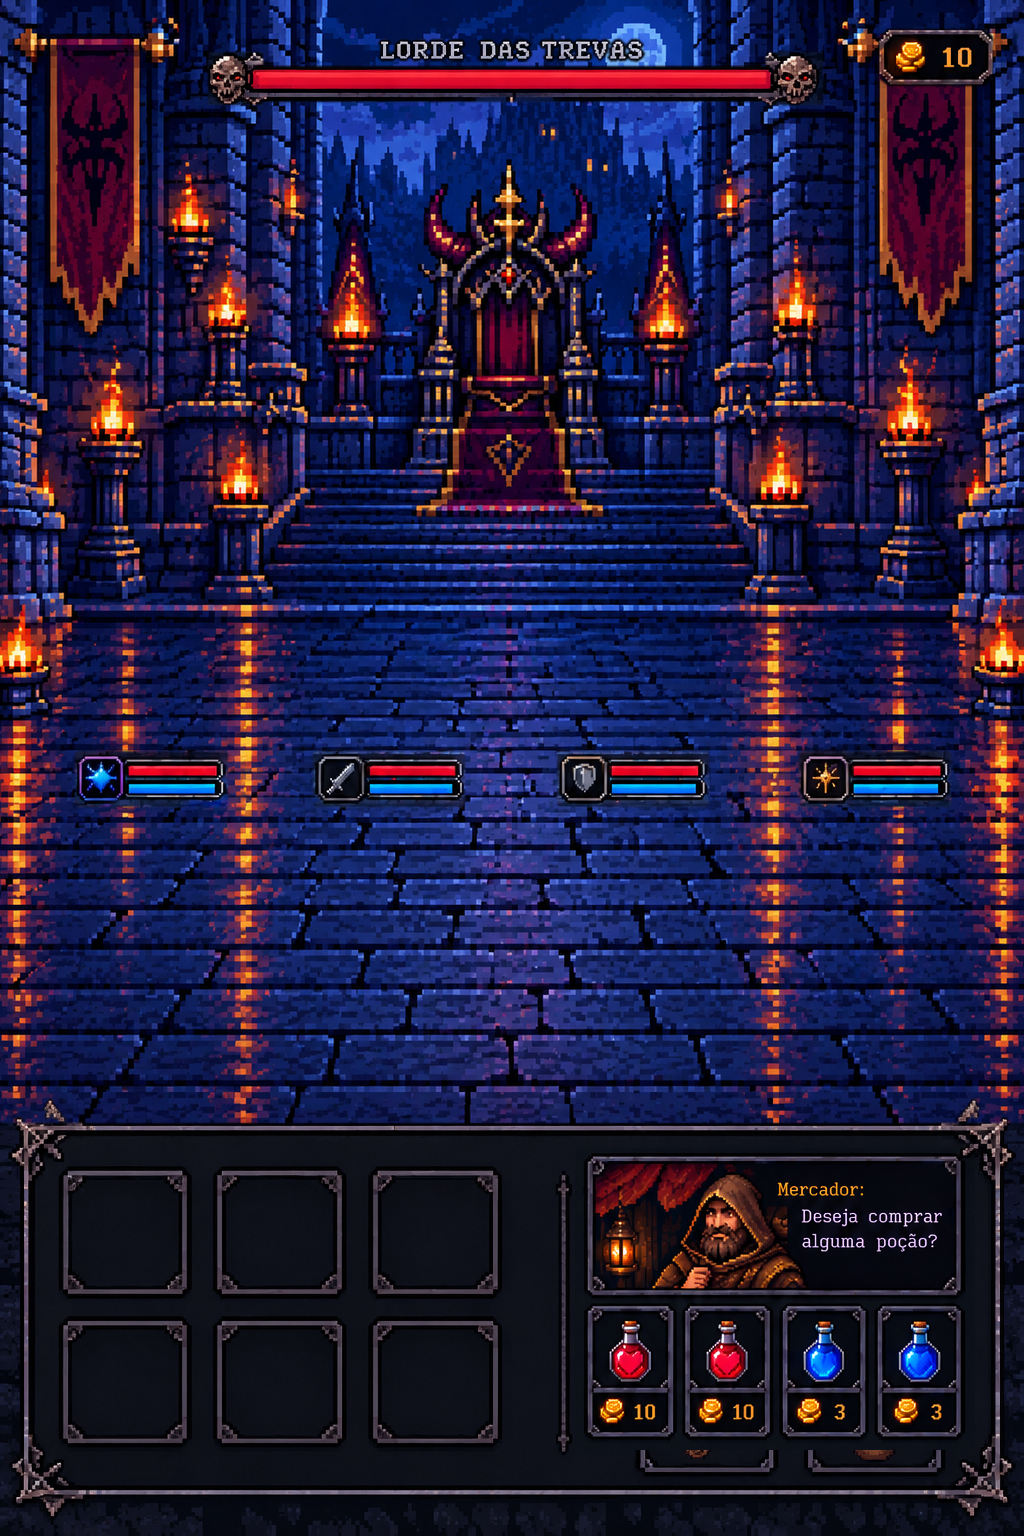
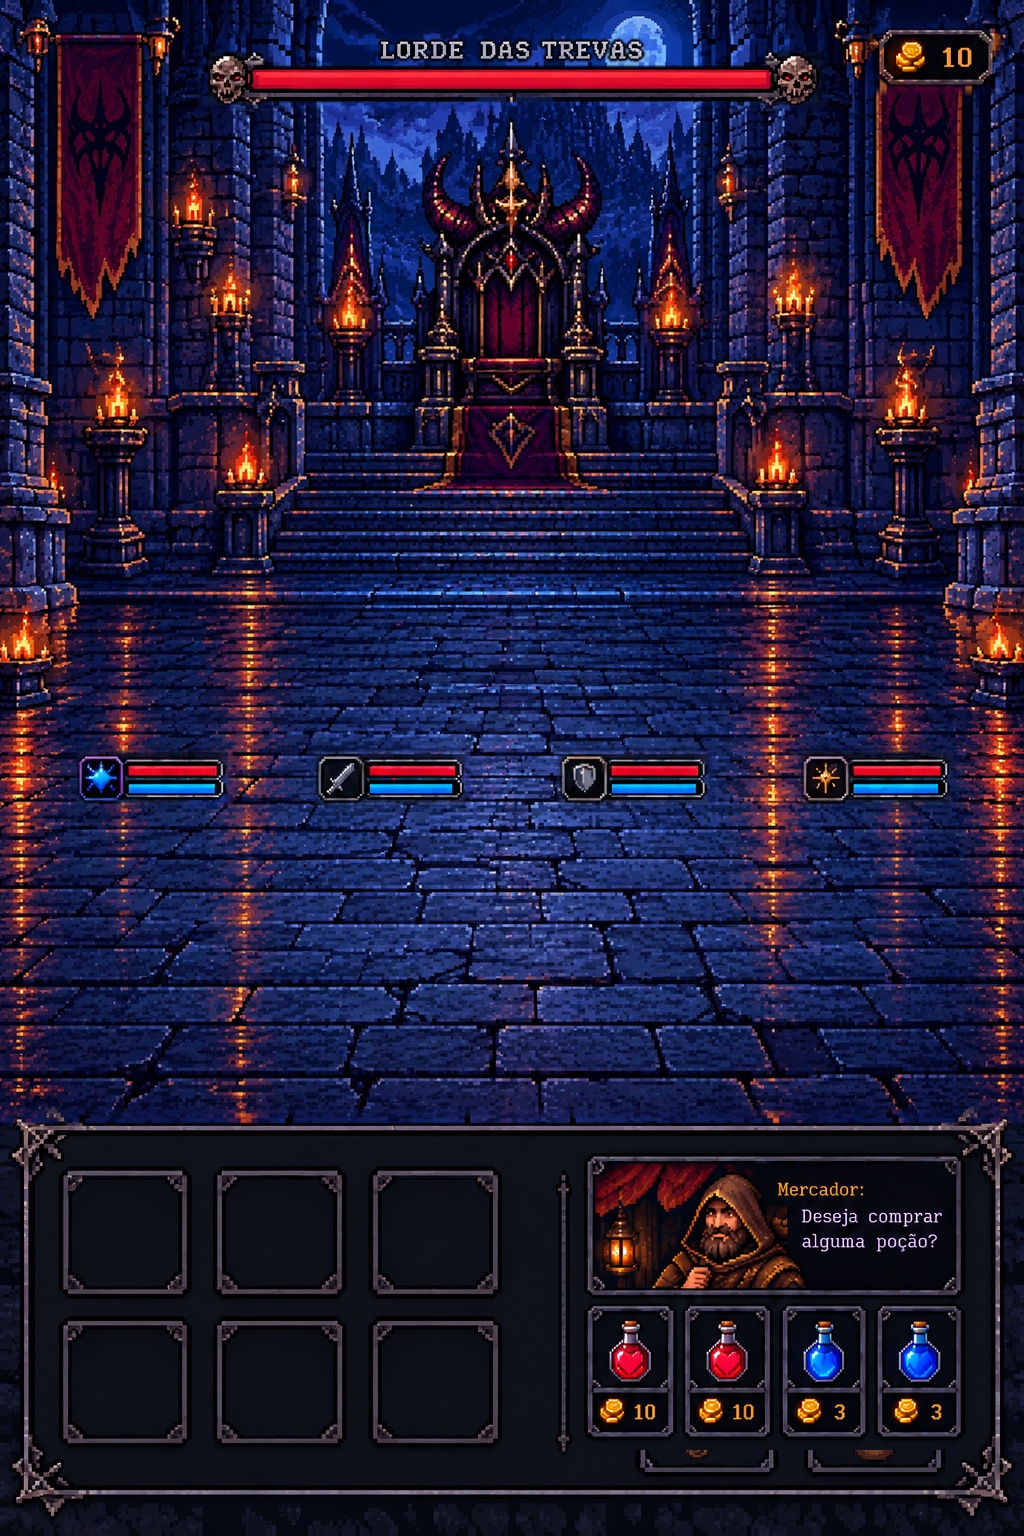
v57: sem regeneração de mana, cenário novo, tremor leve
Claude-Session: https://claude.ai/code/session_01YFC38PcyDKAfPNhJ7r1cKG

diff --git a/sw.js b/sw.js
@@ -1,4 +1,4 @@
-const CACHE='bd1-rpg-v56';
+const CACHE='bd1-rpg-v57';
 const ASSETS=['./','./index.html','./game.html','./lobby.js','./lobby.css','./select_plate.webp','./char_mage.webp','./char_knight.webp','./char_tank.webp','./char_assassin.webp','./panel_mage.webp','./panel_knight.webp','./panel_tank.webp','./panel_assassin.webp','./style.css','./app.js','./anim.js','./mage.js','./cleric.js','./clr/at1.png','./clr/at2.png','./clr/at3.png','./clr/bg1.png','./clr/bg2.png','./clr/bg3.png','./clr/bg4.png','./clr/bp1.png','./clr/bp2.png','./clr/bp3.png','./clr/br1.png','./clr/br2.png','./clr/br3.png','./clr/br4.png','./clr/br5.png','./clr/br6.png','./clr/bt1.png','./clr/bt2.png','./clr/bt3.png','./clr/bt4.png','./clr/d1.png','./clr/d2.png','./clr/d3.png','./clr/d4.png','./clr/dg1.png','./clr/dg2.png','./clr/dg3.png','./clr/dn1.png','./clr/dn2.png','./clr/dn3.png','./clr/ds1.png','./clr/ex1.png','./clr/fx_aura.png','./clr/fx_burst.png','./clr/fx_cross1.png','./clr/fx_lotus.png','./clr/fx_pillar.png','./clr/fx_pillar2.png','./clr/fx_ring1.png','./clr/fx_ring2.png','./clr/fx_ring3.png','./clr/fx_star1.png','./clr/fx_star2.png','./clr/fx_star3.png','./clr/fx_star4.png','./clr/fx_streak1.png','./clr/fx_streak2.png','./clr/fx_streak3.png','./clr/fx_sunstar.png','./clr/hat1.png','./clr/hat2.png','./clr/idle1.png','./clr/meta.json','./clr/pr1.png','./clr/pr2.png','./clr/stf.png','./clr/ult1.png','./clr/ult2.png','./clr/v1.png','./clr/v2.png','./mage3/air.png','./mage3/atk1.png','./mage3/atk2.png','./mage3/atk3.png','./mage3/bh1.png','./mage3/bh2.png','./mage3/castdef.png','./mage3/defair.png','./mage3/defearth.png','./mage3/deffire.png','./mage3/defmana.png','./mage3/defwater.png','./mage3/dodge1.png','./mage3/dodge2.png','./mage3/dodge3.png','./mage3/dodge4.png','./mage3/earth.png','./mage3/fire.png','./mage3/fx_air_swirl.png','./mage3/fx_bh_big.png','./mage3/fx_bh_big2.png','./mage3/fx_bh_small.png','./mage3/fx_bh_spikes.png','./mage3/fx_bolt.png','./mage3/fx_comet.png','./mage3/fx_cross.png','./mage3/fx_crystal.png','./mage3/fx_earth_spikes.png','./mage3/fx_fire_fall.png','./mage3/fx_mana_aura.png','./mage3/fx_orb_blue.png','./mage3/fx_orb_orange.png','./mage3/fx_orb_red.png','./mage3/fx_orbb.png','./mage3/fx_ring_floor.png','./mage3/fx_rock.png','./mage3/fx_rocks.png','./mage3/fx_star_big.png','./mage3/fx_star_small.png','./mage3/fx_water_pillar.png','./mage3/fx_whirl.png','./mage3/idle1.png','./mage3/idle2.png','./mage3/idle3.png','./mage3/idle4.png','./mage3/meta.json','./mage3/spin1.png','./mage3/spinwide.png','./mage3/stars.png','./mage3/swingf.png','./mage3/swingl.png','./mage3/swingr.png','./mage3/water.png','./anim/manifest.json','./spr_mage.webp','./spr_knight.webp','./spr_tank.webp','./spr_assassin.webp','./spr_boss.webp','./game_clean.png','./question_panel.png','./icon_attack.png','./icon_coin.png','./manifest.webmanifest','./potion_hp.png','./potion_mana.png'];
 // Tudo em cache (abre instantâneo, até offline). Em segundo plano o SW confere a rede (requisição condicional, barata);
 // se algum arquivo mudou, atualiza o cache e avisa a página, que recarrega sozinha (menu) ou mostra o aviso (jogo).

diff --git a/app.js b/app.js
@@ -102,7 +102,7 @@ const SKILL_META = {
   assassin:{atk:['FÍSICO',null,'staff'], holy_atk:['FÍSICO','SAGRADO','cross'], def:['FÍSICO',null,'shield'], holy_def:['FÍSICO','SAGRADO','cross'], dodge:[null,null,'dodge']}
 };
 Object.keys(SKILLS).forEach(k => SKILLS[k].forEach(s => { const m = SKILL_META[k][s.id] || []; s.tipo = m[0]; s.attr = m[1]; s.icon = m[2]; }));
-const MANA_REGEN = 8;   // mana recuperada por pergunta
+// mana NÃO regenera: só sobe com Poção de Mana
 const KIND_LABEL = {atk:'ATAQUE', def:'DEFESA', dodge:'ESQUIVA', util:'TÁTICA'};
 
 const GROUPS = {mage:'MAGO', knight:'GUERREIRO', tank:'TANQUE', assassin:'CLÉRIGA'};
@@ -729,7 +729,6 @@ async function playRound(){
   HERO_ORDER.forEach(k => {
     Object.keys(state.cd[k]).forEach(id => { state.cd[k][id] = Math.max(0, state.cd[k][id] - 1); });
     const act = actions[k]; if (act && act.skill.cd > 0) state.cd[k][act.skill.id] = act.skill.cd;
-    if (state.heroes[k].hp > 0) state.heroes[k].mp = Math.min(100, state.heroes[k].mp + MANA_REGEN);
   });
   renderHud();
   if (state.rage >= RAGE_MAX) { state.hardNext = true; state.forceHard = true; toast('Fúria no máximo! A próxima pergunta será difícil.'); }

diff --git a/style.css b/style.css
@@ -58,9 +58,9 @@
 .damage-flash.active{animation:damage-flash .45s ease-out}
 .game.hit-shake{animation:hit-shake .4s linear}
 @keyframes boss-charge{0%{opacity:0;transform:scale(.9)}60%{opacity:1;transform:scale(1.04)}100%{opacity:.55;transform:scale(1)}}
-@keyframes boss-rumble{0%,100%{transform:translate(0,0)}15%{transform:translate(-2px,1px)}30%{transform:translate(2px,-1px)}45%{transform:translate(-1px,-1px)}60%{transform:translate(1px,1px)}75%{transform:translate(-1px,0)}}
+@keyframes boss-rumble{0%,100%{transform:translate(0,0)}25%{transform:translate(-.5px,.3px)}50%{transform:translate(.5px,-.3px)}75%{transform:translate(-.3px,.3px)}}
 @keyframes damage-flash{0%{opacity:0}20%{opacity:.4}100%{opacity:0}}
-@keyframes hit-shake{0%,100%{transform:translateX(0)}20%{transform:translateX(-5px)}40%{transform:translateX(5px)}60%{transform:translateX(-3px)}80%{transform:translateX(3px)}}
+@keyframes hit-shake{0%,100%{transform:translateX(0)}25%{transform:translateX(-1px)}50%{transform:translateX(1px)}75%{transform:translateX(-.5px)}}
 
 /* ===== Fase de ataque dos heróis ===== */
 .dq-answer .label{flex:1;min-width:0}

diff --git a/mage.js b/mage.js
@@ -193,7 +193,7 @@ function make(host){
       fc.drawImage(im, -w / 2, s.anchorB ? -h : -h / 2, w, h); fc.restore(); return true;
     });
     if (flashT && now >= flashT) { const u = (now - flashT) / 420; if (u < 1) { fc.save(); fc.fillStyle = `rgba(150,160,255,${.5 * (1 - u)})`; fc.fillRect(0, 0, front.width, front.height); fc.restore(); } else flashT = 0; }
-    if (shakeT && now >= shakeT) { const u = (now - shakeT) / 450, g = host.shakeEl; if (g) g.style.transform = u < 1 ? `translate(${Math.sin(u * 60) * 4 * (1 - u)}px,${Math.cos(u * 50) * 3 * (1 - u)}px)` : ''; if (u >= 1) shakeT = 0; }
+    if (shakeT && now >= shakeT) { const u = (now - shakeT) / 450, g = host.shakeEl; if (g) g.style.transform = u < 1 ? `translate(${Math.sin(u * 60) * 1 * (1 - u)}px,${Math.cos(u * 50) * .8 * (1 - u)}px)` : ''; if (u >= 1) shakeT = 0; }
   }
   let lastT = {dx:0, dy:0, rot:0, sc:1}, cur_t = 0, fade = 240;
   const run = (a, extra) => new Promise(res => { if (cur) cur.done(false); cur = {a, start: clk(), fired: 0, done: ok => res(ok !== false), ...extra}; });

diff --git a/cleric.js b/cleric.js
@@ -193,7 +193,7 @@ function make(host){
       fc.drawImage(im, -w / 2, s.anchorB ? -h : -h / 2, w, h); fc.restore(); return true;
     });
     if (flashT && now >= flashT) { const u = (now - flashT) / 420; if (u < 1) { fc.save(); fc.fillStyle = `rgba(255,236,170,${.45 * (1 - u)})`; fc.fillRect(0, 0, front.width, front.height); fc.restore(); } else flashT = 0; }
-    if (shakeT && now >= shakeT) { const u = (now - shakeT) / 450, g = host.shakeEl; if (g) g.style.transform = u < 1 ? `translate(${Math.sin(u * 60) * 4 * (1 - u)}px,${Math.cos(u * 50) * 3 * (1 - u)}px)` : ''; if (u >= 1) shakeT = 0; }
+    if (shakeT && now >= shakeT) { const u = (now - shakeT) / 450, g = host.shakeEl; if (g) g.style.transform = u < 1 ? `translate(${Math.sin(u * 60) * 1 * (1 - u)}px,${Math.cos(u * 50) * .8 * (1 - u)}px)` : ''; if (u >= 1) shakeT = 0; }
   }
   const run = (a, extra) => new Promise(res => { if (cur) cur.done(false); cur = {a, start: clk(), fired: 0, done: ok => res(ok !== false), ...extra}; });
   return {

diff --git a/README.md b/README.md
@@ -232,3 +232,8 @@ Animações por código removidas de vez. `anim.js` toca sprite sheets desenhado
 - Clériga volta a usar o cajado (at1/at3/stf/ult1/ult2, de costas) além da Bíblia; mais variações com cajado em ataque, sagrado, defesa, Luz Sagrada e vitória.
 - Dano ao boss só entra no impacto do efeito (evento hit/elemento) para Maga e Clériga; removida a bola de projétil antiga delas.
 - Luz Sagrada: escolhe o alvo ANTES; os efeitos (círculo, pilar, luz) caem no alvo e a vida só muda quando a luz chega. Sem escolha no tempo = não usa e continua disponível.
+
+## v57
+- Mana não regenera mais: só sobe com Poção de Mana.
+- Cenário trocado (salão do trono novo); HUD (boss, moedas, cartões dos heróis, painel) preservado.
+- Tremor do cenário reduzido a quase nada (±1px).
